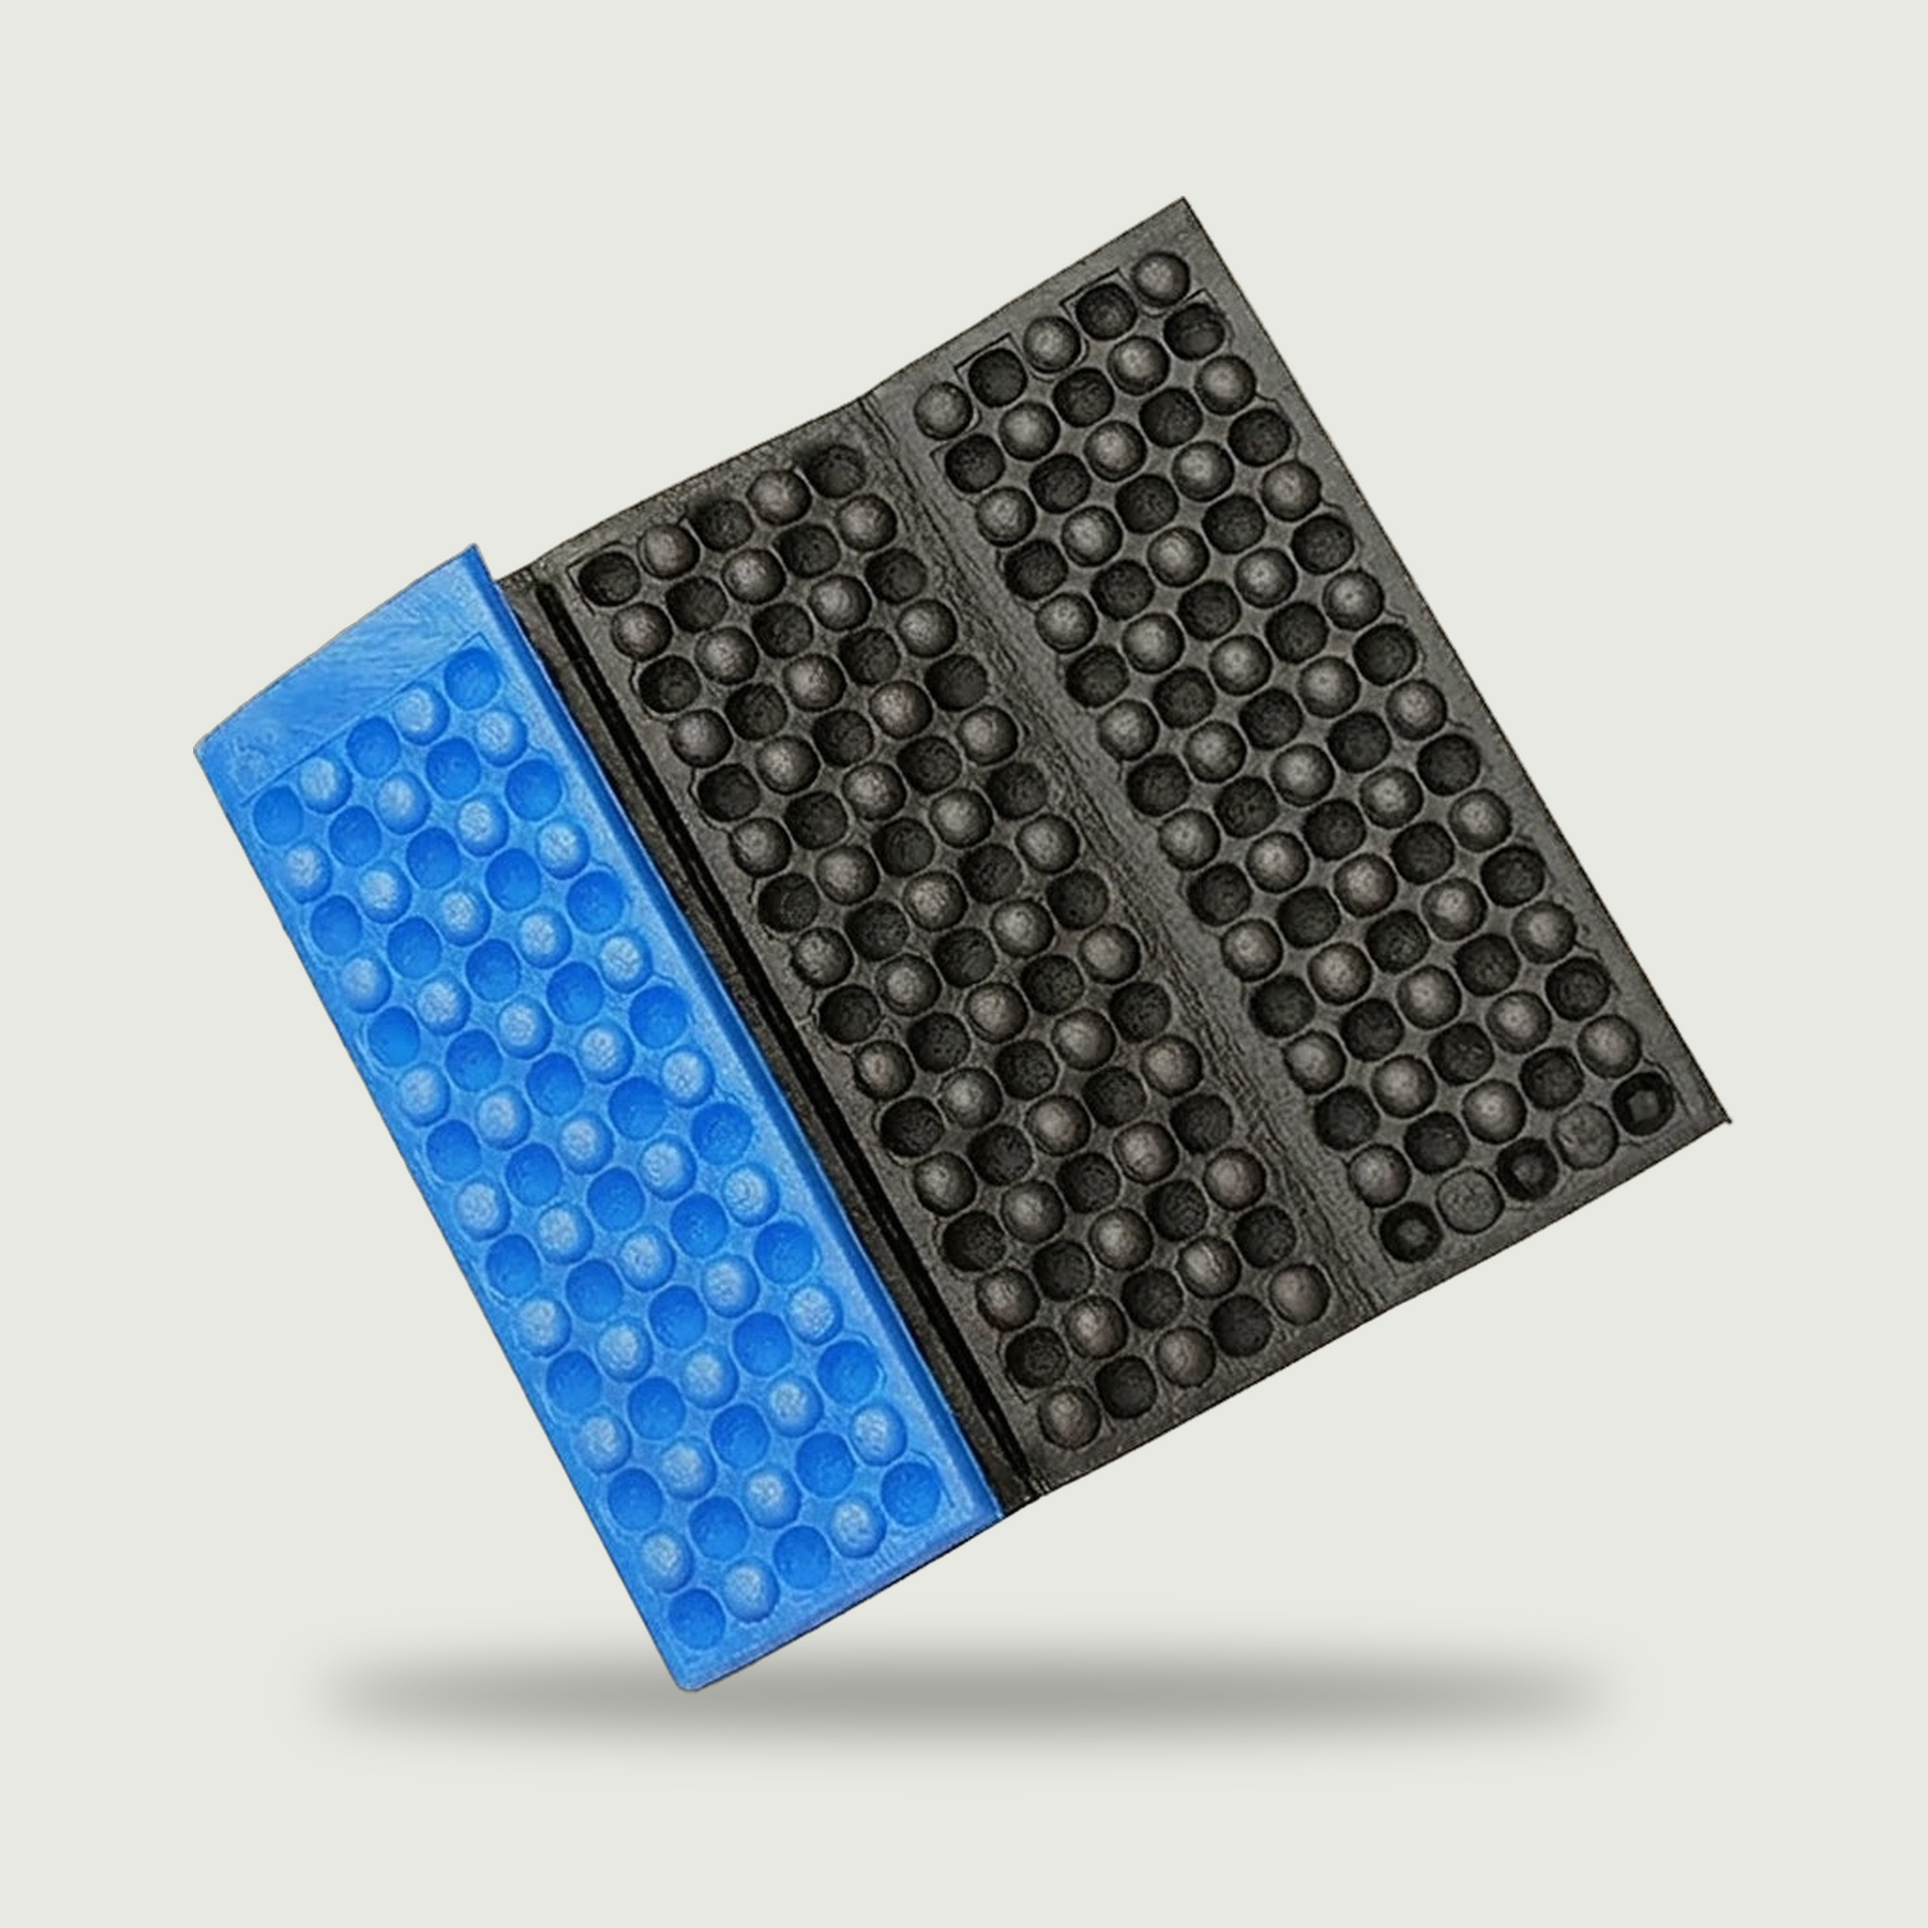
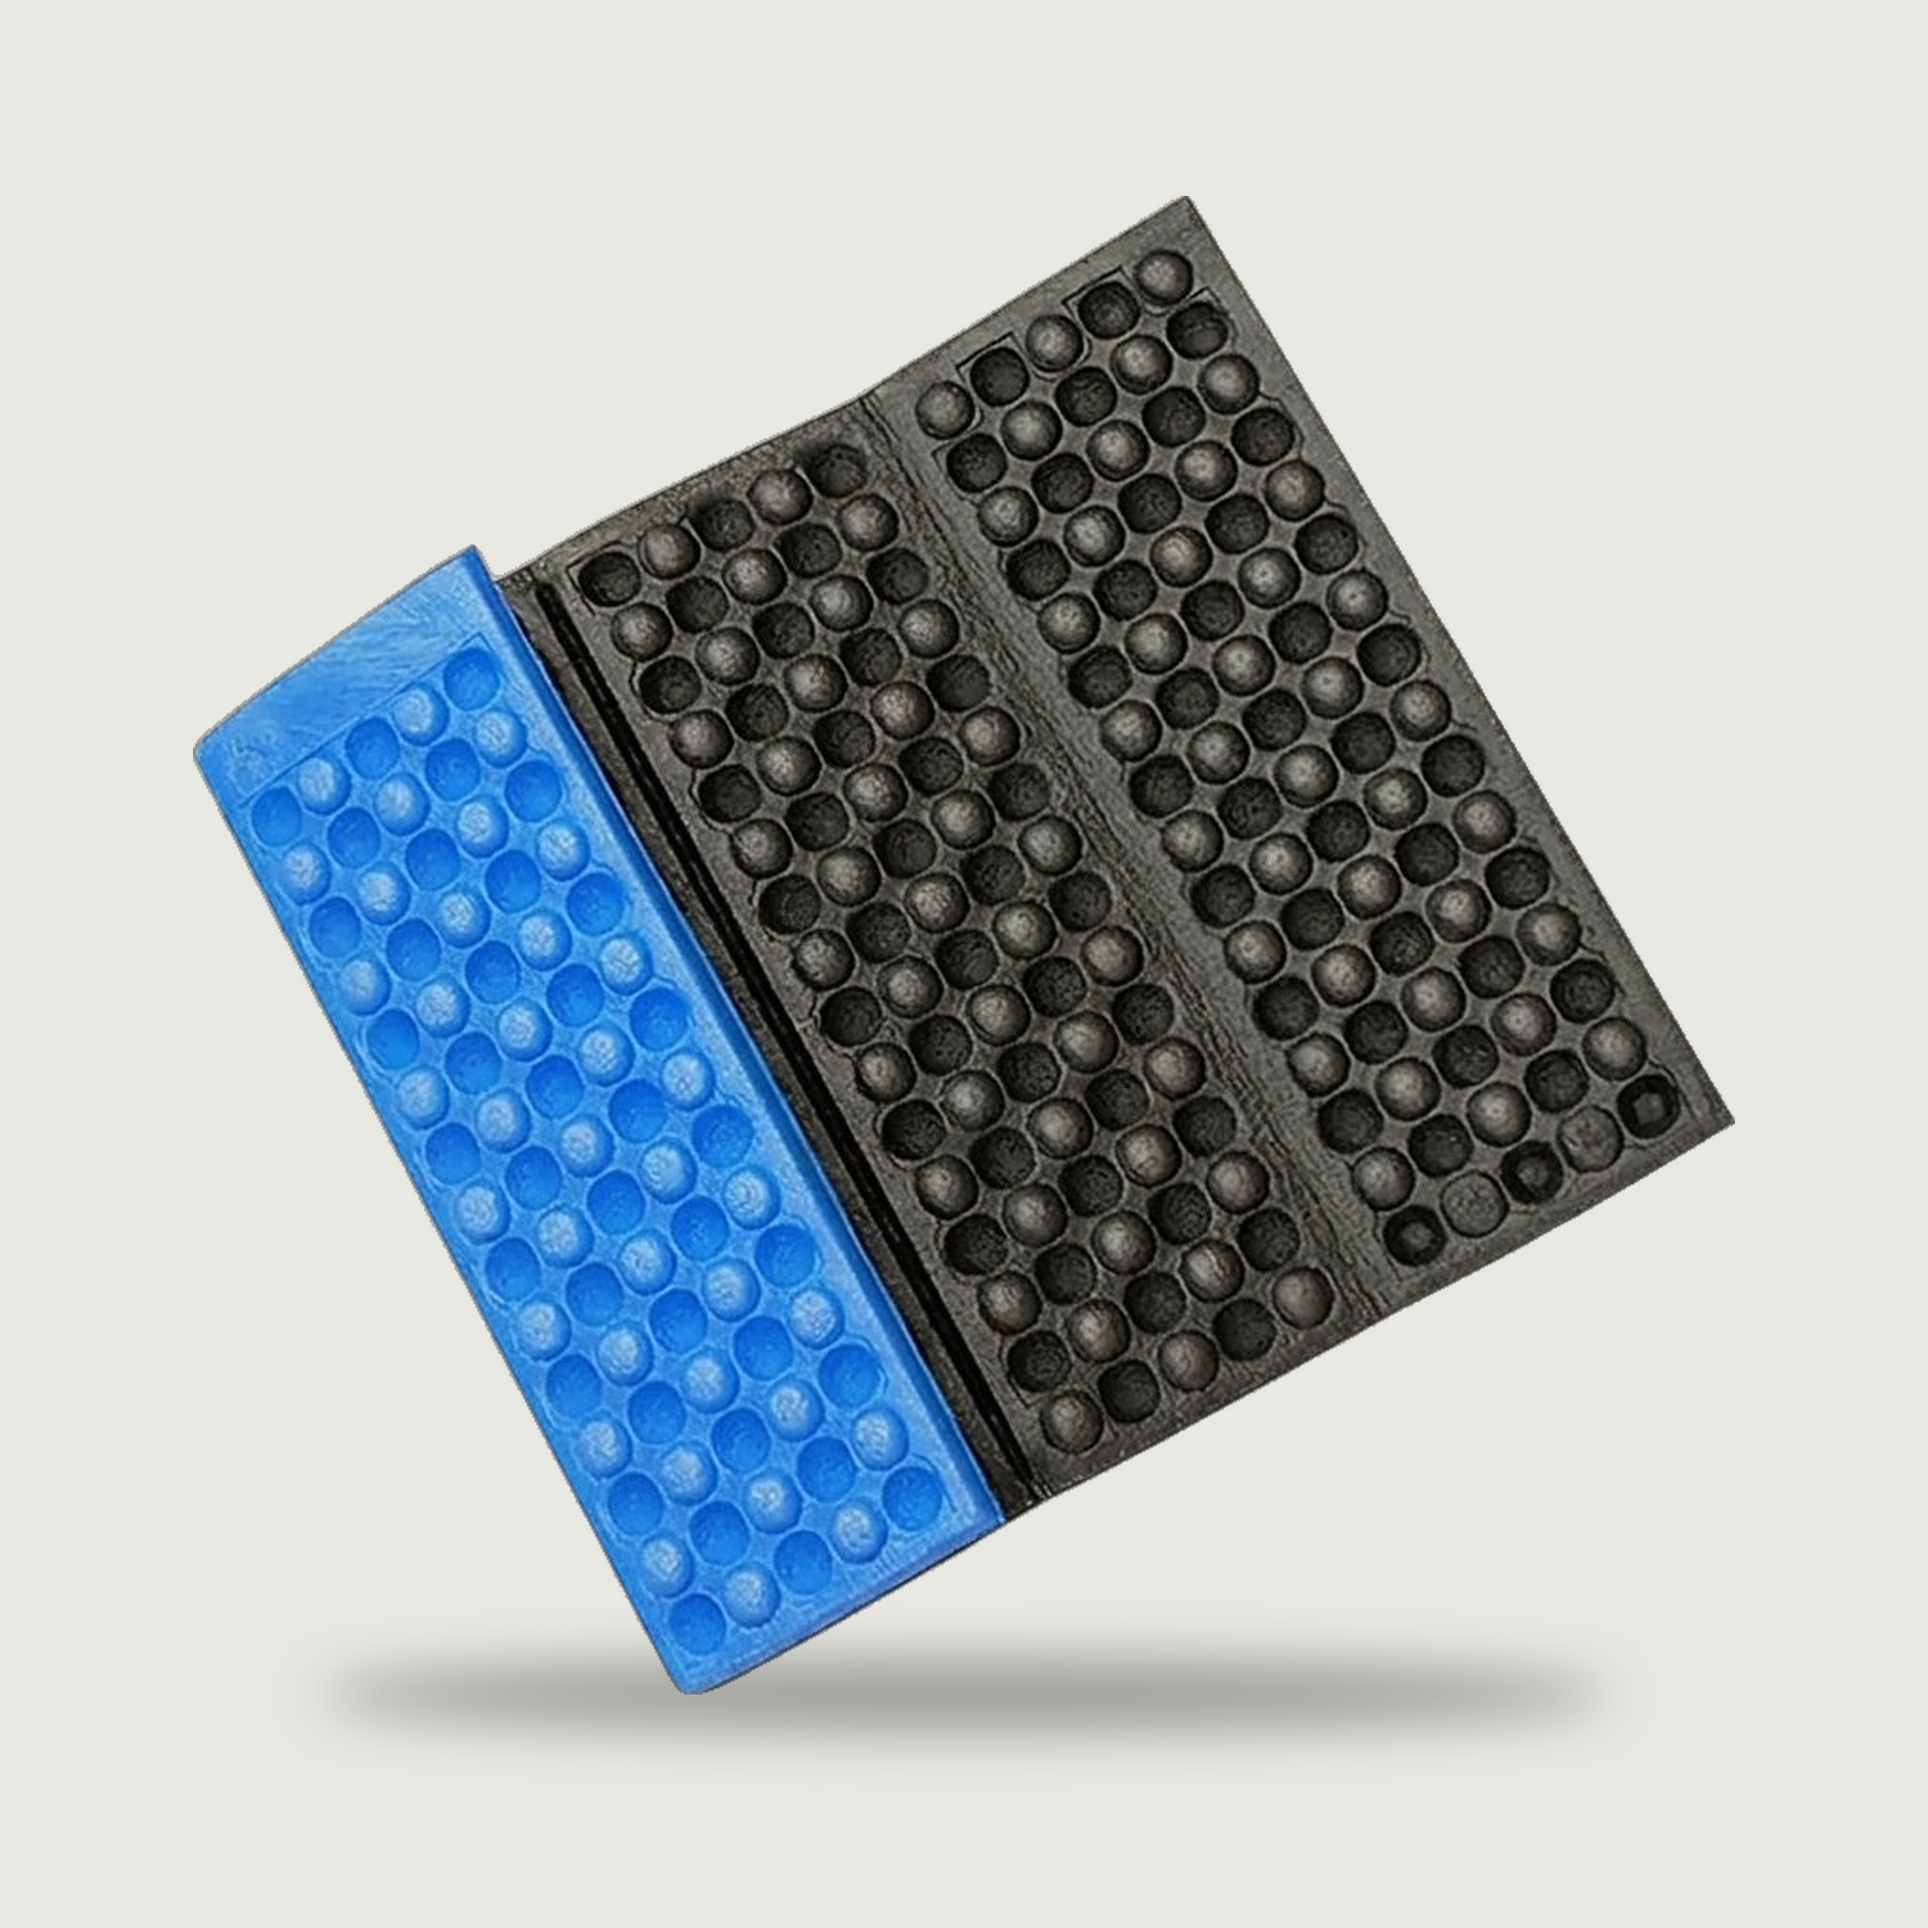
Studio shots: sit pad, straw, multi-tool, bottle; cover.py --model
Claude-Session: https://claude.ai/code/session_017Ww7bRLYZM3uMxkStKbUri

diff --git a/scripts/photos/cover.py b/scripts/photos/cover.py
@@ -23,6 +23,7 @@ ap.add_argument("out")
 ap.add_argument("--fill", type=float, default=0.80, help="share of the frame the longer side fills")
 ap.add_argument("--shadow", type=float, default=1.0)
 ap.add_argument("--amin", type=int, default=12, help="drop cut-out pixels fainter than this (reflections)")
+ap.add_argument("--model", default="isnet-general-use", help="rembg model, try u2net when parts go missing")
 ap.add_argument("--keep", action="store_true", help="close-ups: keep framing, only swap the background colour")
 a = ap.parse_args()
 
@@ -60,7 +61,7 @@ if a.keep:
     print(a.out)
     raise SystemExit
 
-cut = remove(src, session=new_session("isnet-general-use"))  # RGBA
+cut = remove(src, session=new_session(a.model))  # RGBA
 al = np.array(cut.split()[3])
 al[al < a.amin] = 0
 cut.putalpha(Image.fromarray(al))
